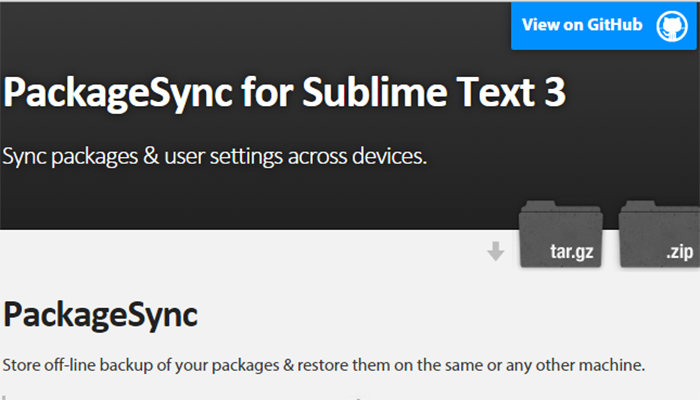
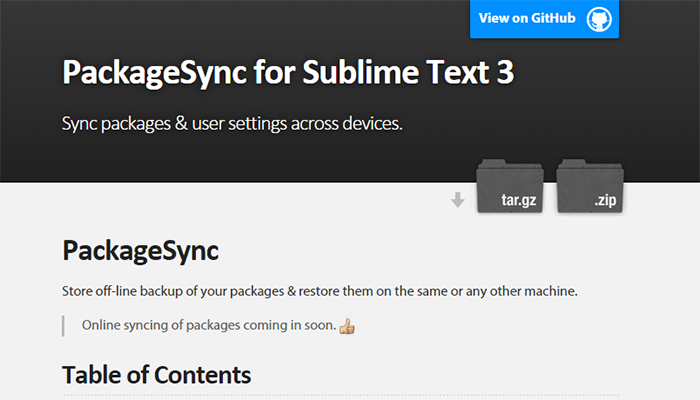
Updated packagesync thumbnail

diff --git a/css/style.css b/css/style.css
@@ -45,8 +45,8 @@ body {
     -moz-transition: all 300ms;
     -o-transition: all 300ms;
     transition: all 300ms;
-    border: 2px solid rgba(0, 0, 0, 0.3);
-    border-radius: 5px;
+    border: 2px solid rgba(0, 0, 0, 0.5);
+    border-radius: 7px;
 }
 
 .section-title {

diff --git a/css/hover.css b/css/hover.css
@@ -14,7 +14,6 @@
     overflow: hidden;
     top: 0;
     left: 0;
-    border-radius: 5px;
     border: 2px solid rgba(0, 0, 0, 0.8);
 }
 
